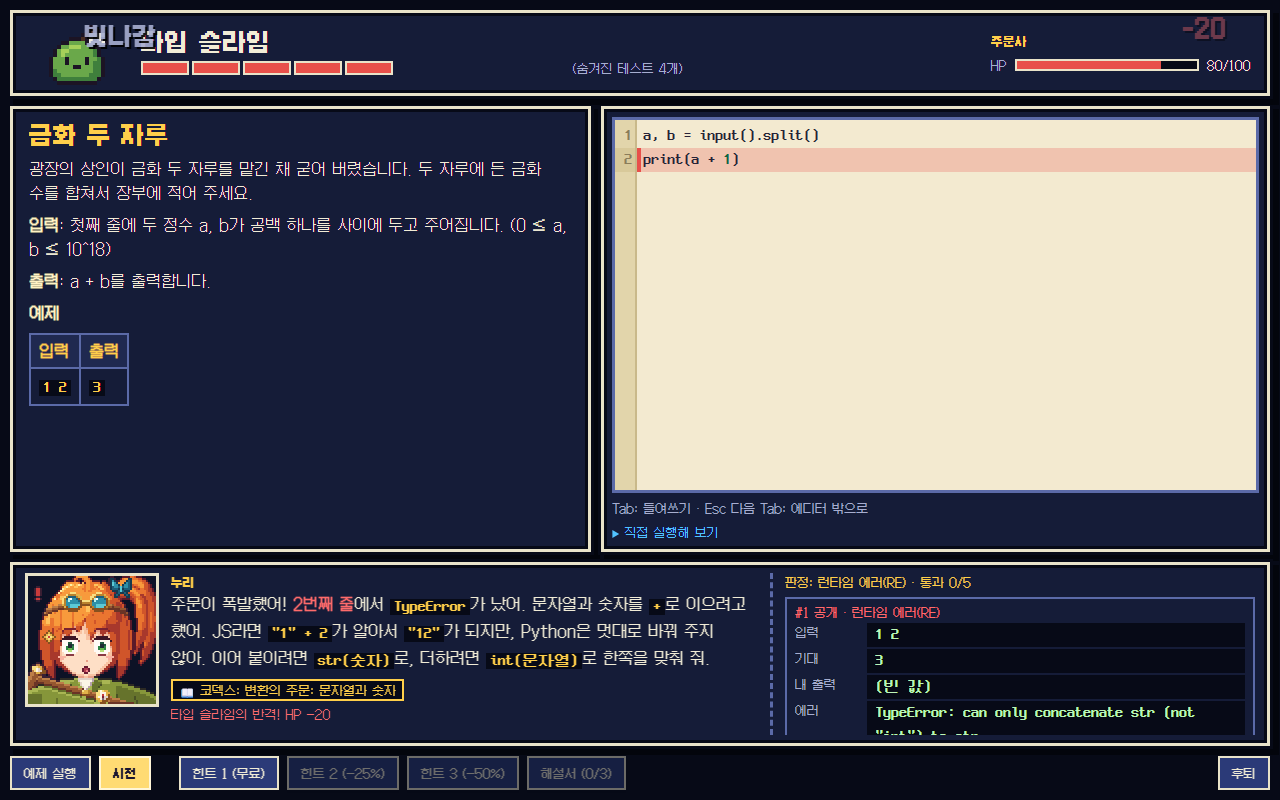
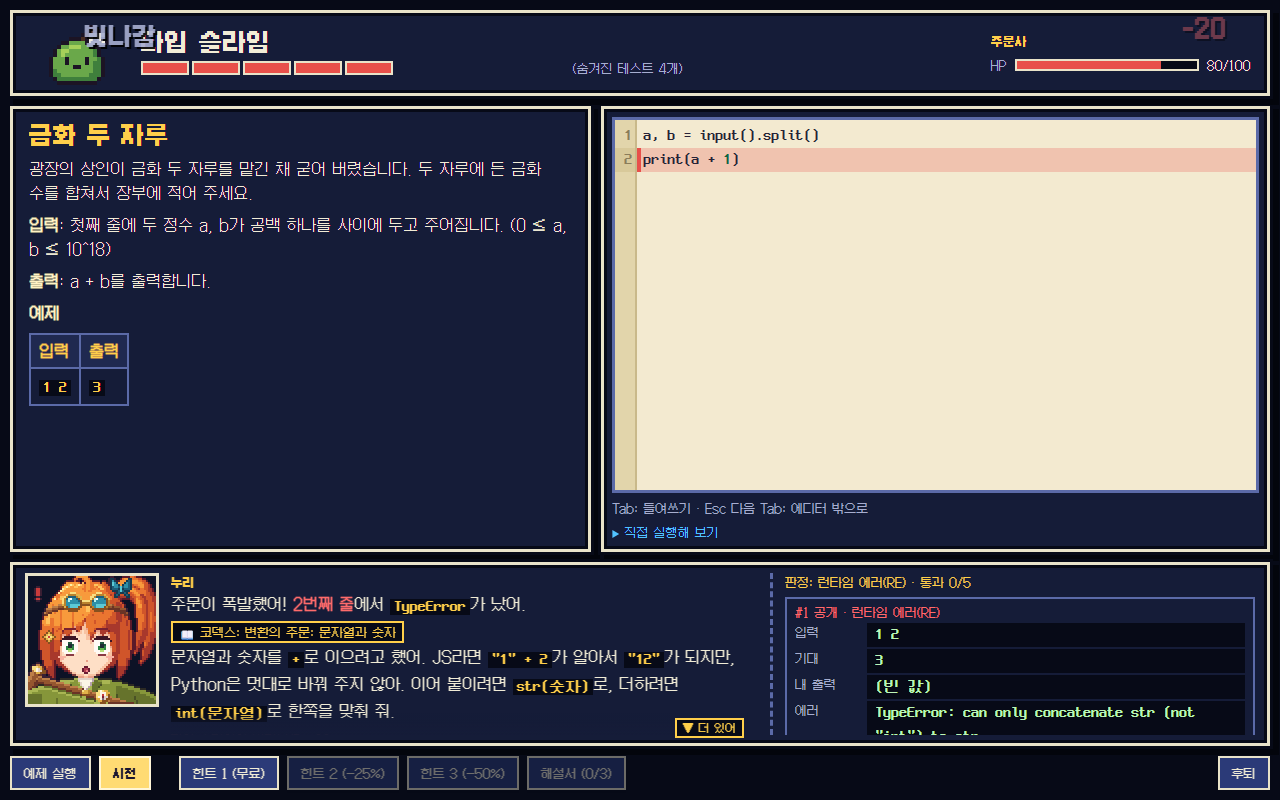
Phase 3 단위 3-5(시스템): 보스 시전 진행 표시, 조사 정리, 코덱스 버튼 위치 마무리
- 시전 진행 표시: 실행기 onStage(JudgeStage: generate/test) → 메시지 칸 '큰 입력 준비 중… (k/n)', '2페이즈 · 시험 k/n', 재확인 '… · 한 번 더 재는 중'. 400 ms 넘게 걸릴 때만 보여 일반 전투에서 깜빡이지 않음
- 조사: josa.ts에 josa/withJosa와 주격·보조사·접속·방향 조사 함수, 승리·보스 등장·회복약·상점·장비·보상·칭호·스트릭 문구에 적용
- 코덱스 버튼: 진단 없는 RE에서 해설 위 첫 줄(err-lead)에 두어 1280×800·1280×720·1024×640에서 스크롤 없이 보임
- 확인용 임시 스크린샷 systems-cast-progress-test.png 삭제(촬영 코드도 제거), systems-glasses-link 스크린샷 갱신

Changed region(s): [[0.125, 0.75, 0.5938, 0.9062], [0.5312, 0.875, 0.5938, 0.9375]]

diff --git a/tests/e2e/battle-feedback.spec.ts b/tests/e2e/battle-feedback.spec.ts
@@ -205,7 +205,7 @@ test.describe("시전 진행 표시와 조사(단위 3-5)", () => {
 
     // 모범답안: 남은 큰 입력 3개(1/3 … 3/3)를 만들며 시험 1/4 → 4/4. 결과 연출은 테스트마다
     await typeCode(page, code("solution.py"));
-    const okLog = await castWithStages(page, [{ when: /2페이즈 · 시험 [23]\/4/, path: `${SCREENS}/systems-cast-progress-test.png` }]);
+    const okLog = await castWithStages(page);
     console.log(`P0411 2페이즈 모범답안: ${okLog.wallMs} ms, 진행 ${JSON.stringify(okLog.stages)}, 최대 프레임 간격 ${okLog.maxFrameGapMs} ms`);
     // 첫 테스트(입력이 이미 있음)가 400 ms 안에 끝나는 빠른 기기에서는 '시험 1/4'가 보이기 전에 지나갈 수 있다
     expect(visibleTexts(okLog).filter((t) => t !== "2페이즈 · 시험 1/4")).toEqual([
